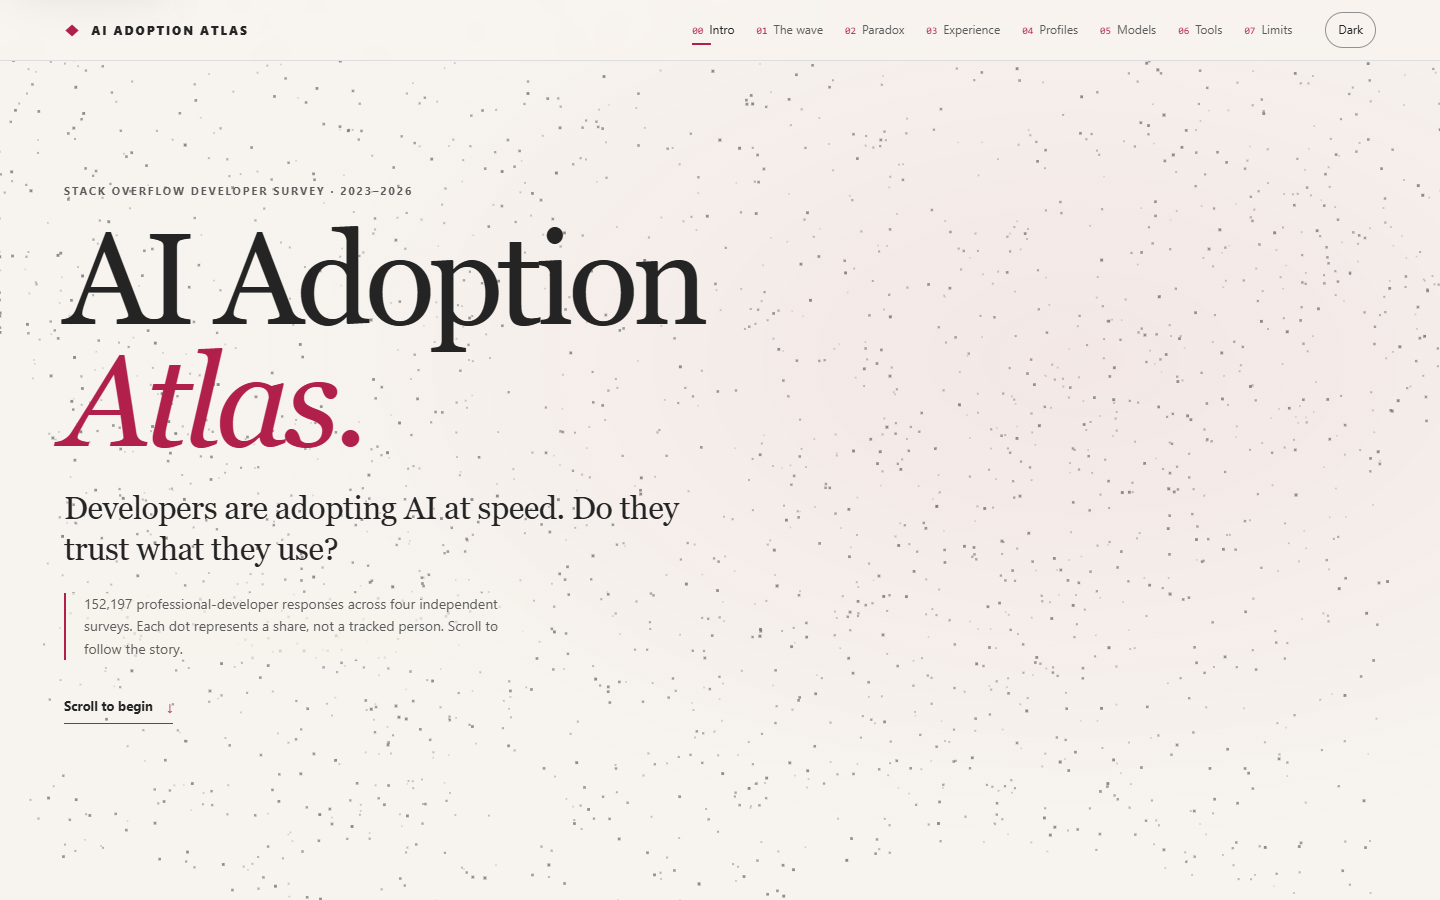
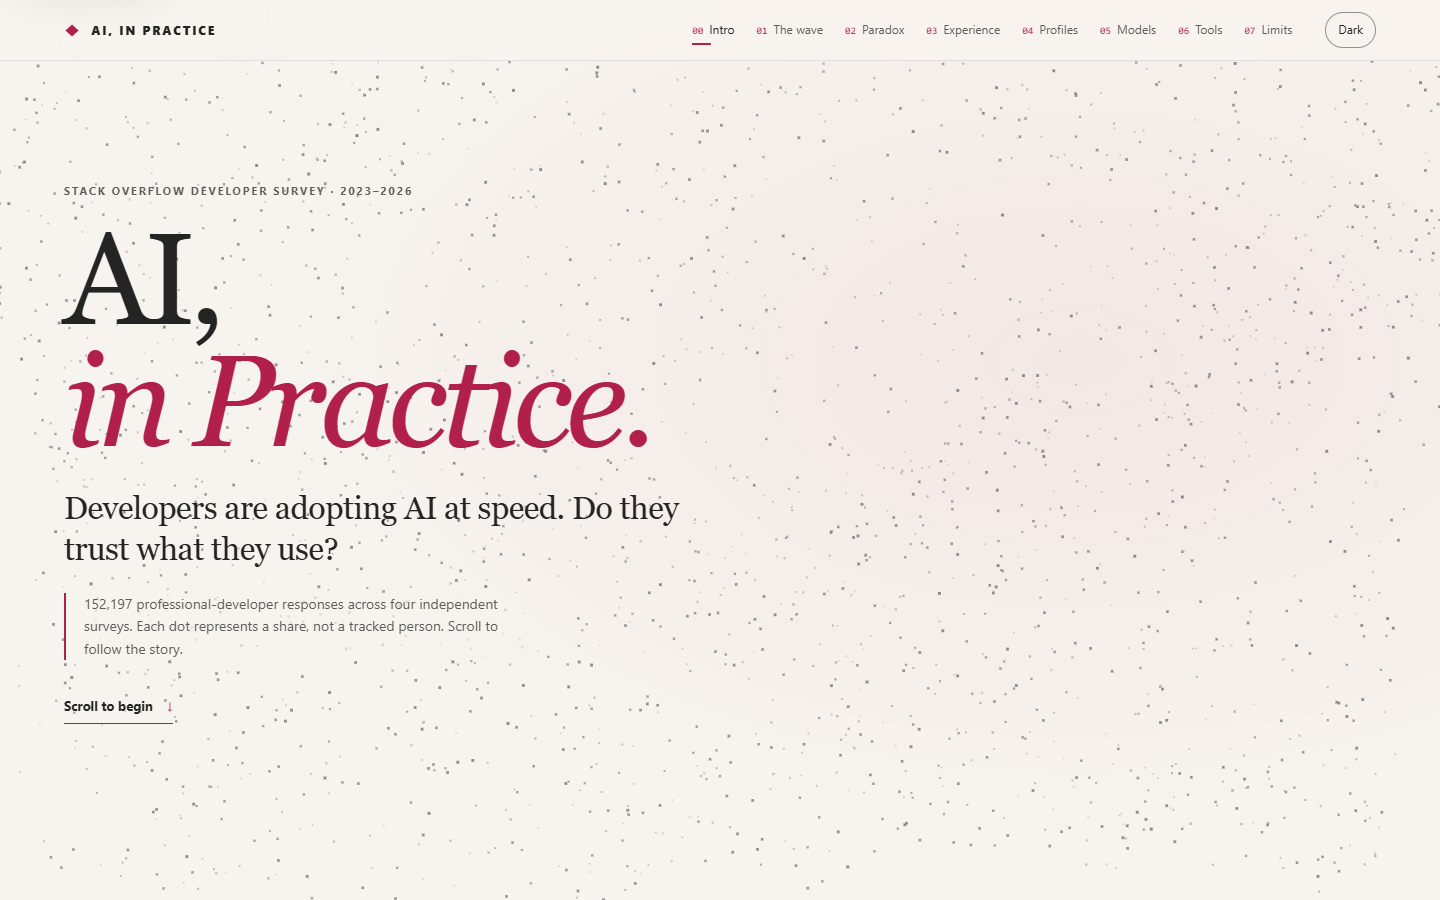
Feature AI, in Practice with its refreshed story preview
Copilot-Session: 6c765888-0858-4777-b192-24ecb325777c

Changed region(s): [[0.0312, 0.2489, 0.5, 0.4978], [0.0625, 0.0311, 0.1562, 0.0622]]

diff --git a/README.md b/README.md
@@ -33,7 +33,7 @@ to share it.
 ## Start here
 
 - **[The Engagement Atlas ↗](https://mberca.github.io/engagement-atlas/?utm_source=github&utm_medium=profile&utm_campaign=readme)**: 630 organization-year observations from the US Federal Employee Viewpoint Survey, comparing five machine-learning models with a simple forecast.
-- **[AI Adoption Atlas ↗](https://mberca.github.io/ai-adoption-atlas/)**: do developers trust what they use? Four public Stack Overflow survey waves, honest model comparisons and interactive storytelling.
+- **[AI, in Practice ↗](https://mberca.github.io/ai-adoption-atlas/)**: do developers trust what they use? Four public Stack Overflow survey waves, honest model comparisons and interactive storytelling.
 - **[Titanic / Patterns, Prediction & Uncertainty ↗](https://mberca.github.io/titanic-patterns/?utm_source=github&utm_medium=profile&utm_campaign=readme)**: one dataset, three methods (association rules, random forest, Bayesian intervals), in R and Python.
 - **[Wonderland, Measured ↗](https://mberca.github.io/alice-in-wonderland-analysis/?utm_source=github&utm_medium=profile&utm_campaign=readme)**: a 2013/14 counting project revisited, showing how a counting rule can change the answer.
 ## Selected research
@@ -83,11 +83,11 @@ is distinguished from actual turnover; associations are not causal effects.
 [Code & notebook](https://github.com/mberca/engagement-atlas) ·
 [Methods](https://github.com/mberca/engagement-atlas/blob/main/METHODOLOGY.md)
 
-### AI Adoption Atlas · Use is not the same as trust
+### AI, in Practice · Use is not the same as trust
 
 <p>
   <a href="https://mberca.github.io/ai-adoption-atlas/">
-    <img src="assets/ai-adoption-atlas-still.png" alt="AI Adoption Atlas: a warm editorial data story, with a field of survey-response particles and the question, do developers trust what they use?" width="100%">
+    <img src="assets/ai-adoption-atlas-still.png" alt="AI, in Practice: a warm editorial data story, with a field of survey-response particles and the question, do developers trust what they use?" width="100%">
   </a>
 </p>
 
